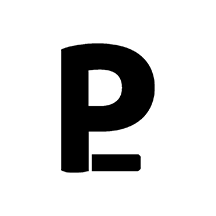
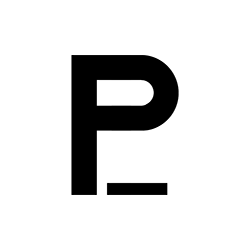
mudou nada, mas... eu mudei alguma coisa

Changed region(s): [[0.2778, 0.1944, 0.7222, 0.8056]]

diff --git a/css/style.css b/css/style.css
@@ -188,7 +188,7 @@ header {
 }
 
 #logo {
-    height: 10%;
+    height: 9%;
 }
 
 #logo2 {

diff --git a/obras.php b/obras.php
@@ -55,9 +55,9 @@
   </header>
   <div class="bg-img bg-blur">
     <center>
-      <div class="" >
+      <div class="">
         <img src="img/1.jpg" style="height:40%;width:100%;backdrop-filter: blur(5px)" alt="">
-       </div>
+      </div>
     </center>
   </div>
 
@@ -79,34 +79,35 @@
   <div class=" " id="logo2">
     <div class=" bg-pers2 rounded shadow bg-blur p-4 text-center">
       <div class="container">
-      <div class="row">
-        <div class="col-2">
-          <div class="text-left text-center rounded-sm img ">
-            <div id="">
-              <img src="https://cdn.pixabay.com/photo/2015/08/15/13/27/el-salvador-dali-889515_1280.jpg" class="rounded-lg p-0 mx-auto img shadow img-fluid" alt="...">
+        <div class="row">
+          <div class="col-2">
+            <div class="text-left text-center rounded-sm img ">
+              <div id="">
+                <img src="img/dale.png"
+                  class="rounded-lg p-0 mx-auto img shadow img-fluid" alt="...">
+              </div>
             </div>
           </div>
-        </div>
 
-        <div class="col-10 mt-5">
-          <div class="text-left  text-center p-1 rounded-sm">
-            <div class="ml-3">
-              <div class="font-weight-bold text-left h1 m-4">
-                Salvador Dalí - A Exposição Digital<br>
-              </div>
-              <div class="text-left ml-4">
-                <p>Divirta-se na nossa exposição digital de Salvador Dalí, o tempo é ilimitado</p>
-                <small class="text-muted">Criado por Paralax DD Livros e Aviaras Technology</small>
+          <div class="col-10 mt-5">
+            <div class="text-left  text-center p-1 rounded-sm">
+              <div class="ml-3">
+                <div class="font-weight-bold text-left h1 m-4">
+                  Salvador Dalí - A Exposição Digital<br>
+                </div>
+                <div class="text-left ml-4">
+                  <p>Divirta-se na nossa exposição digital de Salvador Dalí, o tempo é ilimitado</p>
+                  <small class="text-muted">Criado por Paralax DD Livros e Aviaras Technology</small>
+                </div>
               </div>
             </div>
           </div>
-        </div>
         </div>
       </div>
     </div>
     <main class="">
 
-    <!-- <div class="hoverzoom">
+      <!-- <div class="hoverzoom">
       <img class="rounded" src="img/lenildo_noel.png" alt="Obras de Dalí" />
       <div class="retina">
           <p>Lenildo Natal</p>
@@ -114,52 +115,56 @@
       </div> Não vou remover o lenildo, seria bem triste :C
     </div> -->
 
-    <!--- TAMBÉM É TESTE, SUJEUTO A MUDANÇAS -->
-    
+      <!--- TAMBÉM É TESTE, SUJEUTO A MUDANÇAS -->
 
 
 
 
-      
 
-   
+
+
+
 
     </main>
-</div>
-    <main style="margin-top:200px">
+  </div>
+  <main style="margin-top:18%">
     <?php
       $i = 0;
       foreach ($listaobra as $linha){
     ?>
-      <?php $i=$i+1 ?>
-      <div class="bg-pers1 mt-5 mb-5">
-        <div class="container-fluid flush-with-above bordaGaleria p-5 text-center text-white bg-pers2">
+    <?php $i=$i+1 ?>
+    <div class="bg-pers1 mt-5 mb-5">
+      <div class="container-fluid flush-with-above bordaGaleria p-5 text-center text-white bg-pers2">
         <div class="row align-items-center ">
           <div class="col-4 ">
-            <img src="<?php echo $linha['caminhoImagem']?>" class="img-fluid areaLogin" alt="<?php echo $linha['descImagem'] ?>">
+            <img src="<?php echo $linha['caminhoImagem']?>" class="img-fluid areaLogin"
+              alt="<?php echo $linha['descImagem'] ?>">
           </div>
           <div class="col-8">
             <h1><?php echo $linha['nomeObra'] ?></h1>
             <h4 class="subtitulo-obra">Autor: <?php echo $linha['nomeAutor'] ?></h4>
             <p class="texto-obra">Categoria: <?php echo $linha['descCategoria'] ?></p>
-            <button class="btn-outline-warning btn-block btn-lg btn-cadastro" data-toggle="modal" data-target="<?php echo '#exampleModalLabel'.$i ?>">Alta Qualidade</button>
+            <button class="btn-outline-warning btn-block btn-lg btn-cadastro" data-toggle="modal"
+              data-target="<?php echo '#exampleModalLabel'.$i ?>">Alta Qualidade</button>
           </div>
-        </div></div>
+        </div>
       </div>
+    </div>
 
     <!-- Modal -->
-    <div class="modal modal fade" id="<?php echo 'exampleModalLabel'.$i ?>" tabindex="-1" role="dialog" aria-labelledby="<?php echo 'exampleModalLabel'.$i ?>" aria-hidden="true">
-      <div class="modal-dialog modal-dialog-scrollable modal-xl" role="document">
-        <div class="modal-content">
-          <div class="modal-header">
-            <h5 class="modal-title text-center" id="<?php echo 'exampleModalLabel'.$i ?>" style="color: black;"><?php echo $linha['nomeObra'] ?></h5>
-            <button type="button" class="close" data-dismiss="modal" aria-label="Close">
+    <div class="modal modal fade rouded" id="<?php echo 'exampleModalLabel'.$i ?>" tabindex="-1" role="dialog"
+      aria-labelledby="<?php echo 'exampleModalLabel'.$i ?>" aria-hidden="true">
+      <div class="modal-dialog modal-dialog-scrollable rouded modal-xl" role="document">
+        <div class="modal-content ">
+          <div class="modal-header bg-dark rouded">
+            <h5 class="modal-title text-center text-white" id="<?php echo 'exampleModalLabel'.$i ?>"
+              style="color: black;"><?php echo $linha['nomeObra'] ?></h5>
+            <button type="button" class="close" data-dismiss="modal">
               <span aria-hidden="true">&times;</span>
             </button>
           </div>
-          <div class="modal-body text-center pt-5">
-            <img src="<?php echo $linha['caminhoImagem'] ?>" class="areaLogin" alt="<?php echo $linha['descImagem'] ?>">
-            <p>teste</p>
+          <div class="modal-body text-center pt-5 bg-dark">
+            <img src="<?php echo $linha['caminhoImagem'] ?>" style=" width:30%;" class="areaLogin" alt="<?php echo $linha['descImagem'] ?>">
           </div>
         </div>
       </div>
@@ -168,9 +173,9 @@
     <?php
       }
     ?>
-    </main>
+  </main>
 
-    <footer class="pt-2 bordaRodape bg-pers0">
+  <footer class="pt-2 bordaRodape bg-pers0">
     <div class="container-fluid">
       <div class="row pl-5 pr-5">
         <div class="col-md-3 pt-3 pb-3">
@@ -212,9 +217,9 @@
 
 
   <script src="js/bootstrap.min.js"></script>
-   <script src="js/scripts.js"></script>
+  <script src="js/scripts.js"></script>
   <link rel="stylesheet" href="https://use.fontawesome.com/releases/v5.7.0/css/all.css"
-    integrity="sha384-lZN37f5QGtY3VHgisS14W3ExzMWZxybE1SJSEsQp9S+oqd12jhcu+A56Ebc1zFSJ" crossorigin="anonymous"> 
+    integrity="sha384-lZN37f5QGtY3VHgisS14W3ExzMWZxybE1SJSEsQp9S+oqd12jhcu+A56Ebc1zFSJ" crossorigin="anonymous">
 </body>
 
 </html>

diff --git a/classes/Conexao.php b/classes/Conexao.php
@@ -2,7 +2,7 @@
 
    class Conexao{
       public static function pegarConexao(){
-         $conexao = new PDO("mysql:host=localhost:3307;
+         $conexao = new PDO("mysql:host=localhost;
                               dbname=bdmuseudali;",
                               "root",
                               "");
